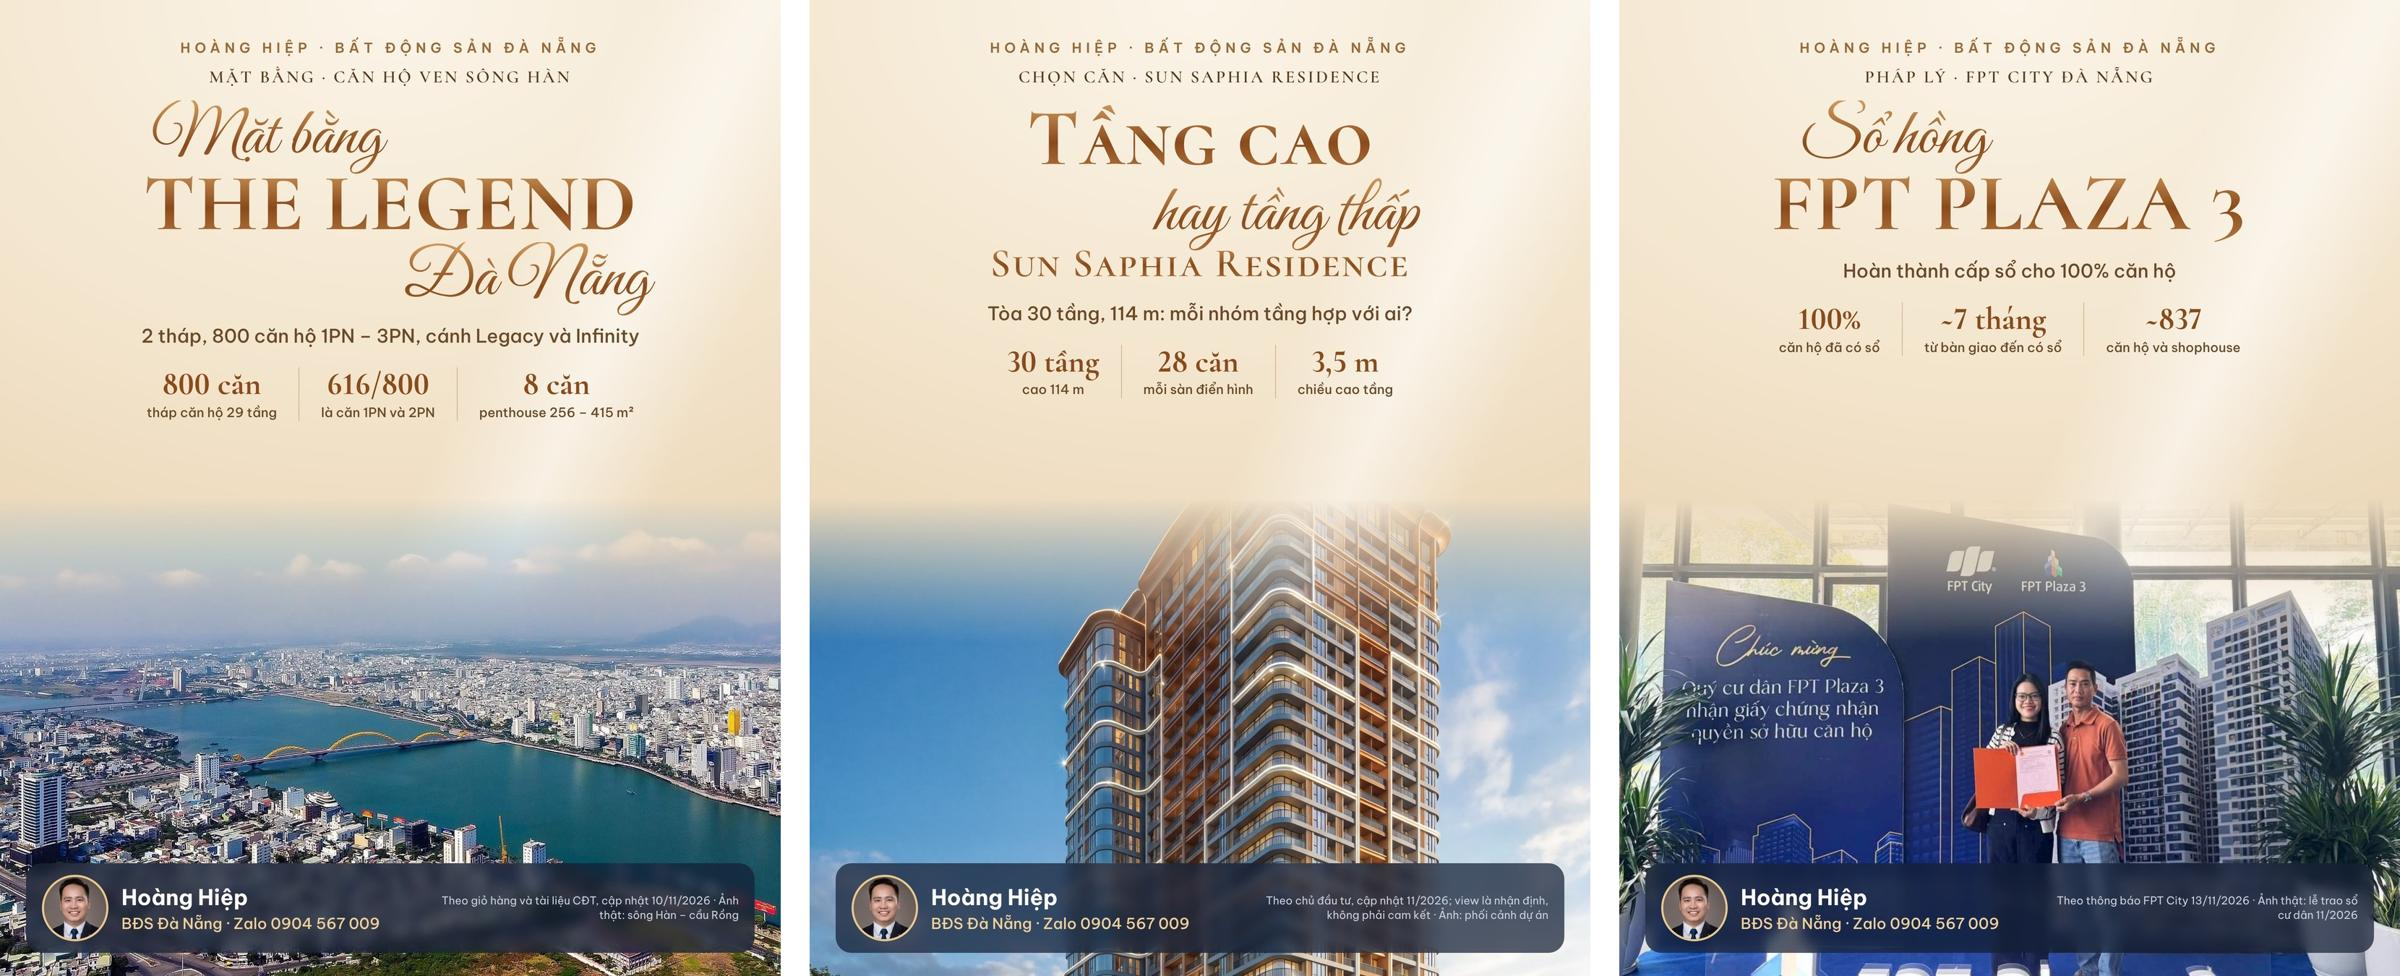
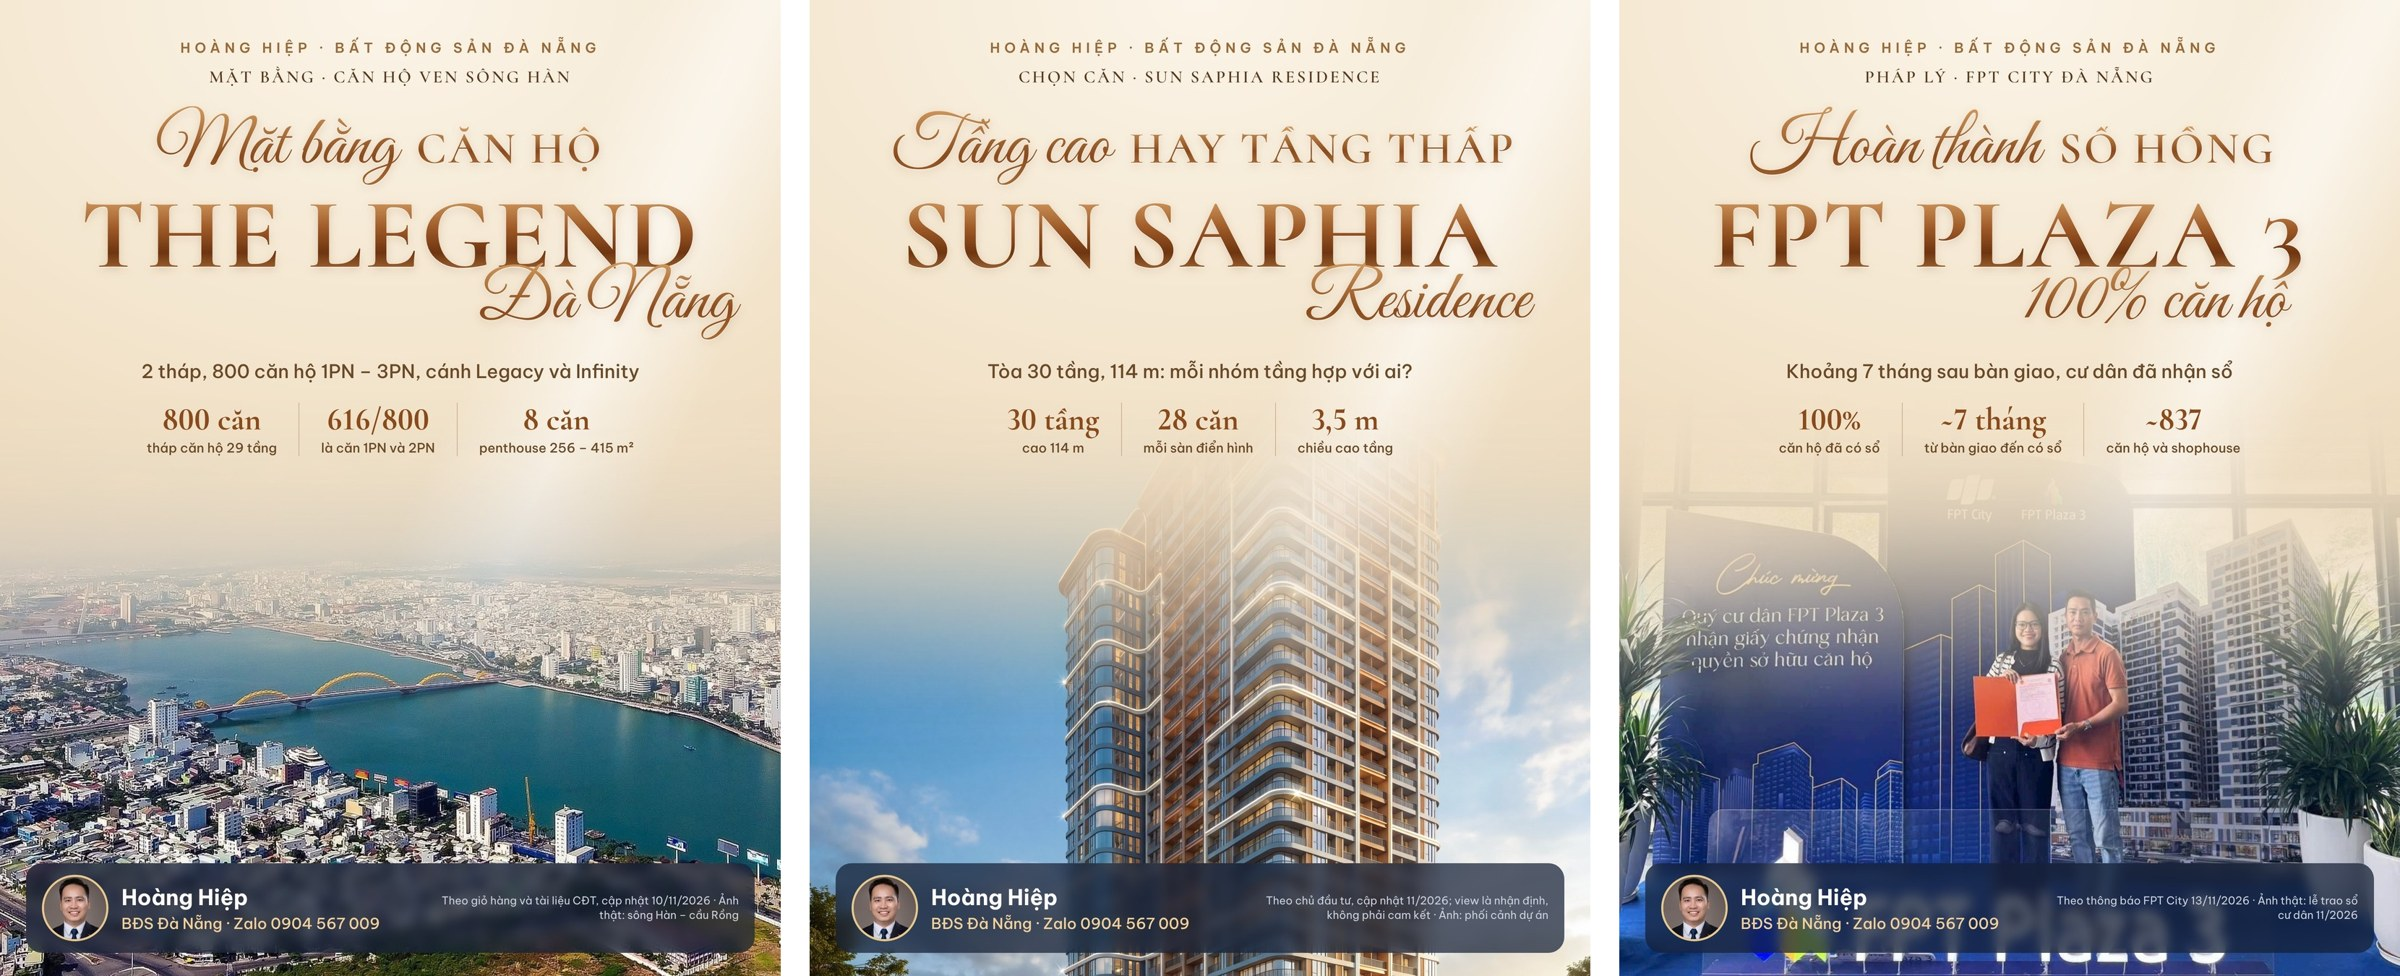
Mẫu poster: chữ nghiêng cùng hàng chữ in, chữ nhấn rất to, dòng nghiêng chạm nhẹ góc dưới phải; ảnh mờ dần đều hơn
Claude-Session: https://claude.ai/code/session_01Wm6ymiK43bcSEb2Ytz1zHX

diff --git a/wordpress/bai-viet/fb-the-doc-v2.py b/wordpress/bai-viet/fb-the-doc-v2.py
@@ -75,8 +75,13 @@ if STYLE == 'tap-chi':
 elif STYLE == 'poster':
     # Kiểu poster (theo mẫu anh Hiệp gửi 15/11/2026): nền ngà có vệt sáng, tiêu đề so le căn giữa
     # (chữ nghiêng Great Vibes + chữ in Cormorant SC màu đồng, chữ nhấn to đậm), 3 con số, ảnh tràn nửa dưới mờ dần lên.
-    hl = c.get('headline') or [[c['title'], 'cap', 0]]
-    head = ''.join('<span class="l %s" style="transform:translateX(%dpx)">%s</span>' % (k, int(dx), e(t)) for t, k, dx in hl)
+    # headline_poster: các dòng; mỗi dòng {"segs": [[chữ, script|cap|big], ...], "dx": lệch ngang px, "over": đè lên dòng trên}
+    # Ví dụ mẫu Noble Palace: [{"segs":[["Bình ổn","script"],["LÃI SUẤT","cap"]]}, {"segs":[["AN TÂM","big"]]},
+    #                          {"segs":[["Tích sản","script"]],"dx":200,"over":true}]
+    hl = c.get('headline_poster') or [{'segs': [[c['title'], 'cap']]}]
+    head = ''.join('<span class="ln%s" style="transform:translateX(%dpx)">%s</span>' % (
+        ' over' if ln.get('over') else '', int(ln.get('dx', 0)),
+        ''.join('<span class="l %s">%s</span>' % (k, e(t)) for t, k in ln['segs'])) for ln in hl)
     st = ''.join('<div class="st"><b>%s</b><span>%s</span></div>' % (e(a), e(b)) for a, b in stats[:3])
     body = """<div class="card pos">
 <div class="beam"></div>
@@ -87,15 +92,18 @@ elif STYLE == 'poster':
     css = """
 .pos{background:radial-gradient(120% 70% at 50% 0%,#fbf4e8 0%,#f3e5cd 55%,#e9d3b2 100%);color:#3a2412}
 .pos .beam{position:absolute;inset:0;background:linear-gradient(115deg,transparent 52%,rgba(255,255,255,.55) 62%,transparent 72%);pointer-events:none}
-.pos .ph{position:absolute;left:0;right:0;bottom:0;height:660px;background-size:cover;-webkit-mask-image:linear-gradient(180deg,transparent 0%,#000 30%);mask-image:linear-gradient(180deg,transparent 0%,#000 30%)}
+.pos .ph{position:absolute;left:0;right:0;bottom:0;height:820px;background-size:cover;-webkit-mask-image:linear-gradient(180deg,rgba(0,0,0,0) 0%,rgba(0,0,0,.04) 8%,rgba(0,0,0,.12) 16%,rgba(0,0,0,.26) 24%,rgba(0,0,0,.45) 32%,rgba(0,0,0,.66) 40%,rgba(0,0,0,.84) 48%,rgba(0,0,0,.95) 56%,#000 64%);mask-image:linear-gradient(180deg,rgba(0,0,0,0) 0%,rgba(0,0,0,.04) 8%,rgba(0,0,0,.12) 16%,rgba(0,0,0,.26) 24%,rgba(0,0,0,.45) 32%,rgba(0,0,0,.66) 40%,rgba(0,0,0,.84) 48%,rgba(0,0,0,.95) 56%,#000 64%)}
+.pos .ph:after{content:'';position:absolute;left:0;right:0;top:0;height:55%;background:linear-gradient(180deg,rgba(243,229,205,.9) 0%,rgba(243,229,205,.45) 45%,rgba(243,229,205,0) 100%)}
 .pos .top{position:absolute;left:60px;right:60px;top:54px;text-align:center;display:flex;flex-direction:column;align-items:center}
 .pos .brand{font:600 19px BVP;letter-spacing:.32em;color:#9a6a3a}
 .pos .tag{margin-top:14px;font:600 24px CSC;letter-spacing:.12em;color:#5a3a1e}
-.pos h1{margin:18px 0 6px;display:flex;flex-direction:column;align-items:center}
-.pos .l{display:block;white-space:nowrap;-webkit-background-clip:text;background-clip:text;color:transparent;background-image:linear-gradient(180deg,#d39a5c 0%,#8a4a1c 55%,#b8783f 100%);font-variant-numeric:lining-nums}
-.pos .script{font:400 92px/1 GV;padding:6px 16px 14px;margin:0 0 -22px}
-.pos .cap{font:600 56px/1.05 CSC;letter-spacing:.04em}
-.pos .big{font:700 112px/.95 CSC;letter-spacing:.01em}
+.pos h1{margin:26px 0 4px;display:flex;flex-direction:column;align-items:center}
+.pos .ln{display:flex;align-items:baseline;justify-content:center;gap:18px;white-space:nowrap;position:relative}
+.pos .ln.over{margin-top:-26px;z-index:2}
+.pos .l{display:inline-block;white-space:nowrap;filter:drop-shadow(0 1px 0 rgba(255,255,255,.7)) drop-shadow(0 3px 6px rgba(120,60,20,.18));-webkit-background-clip:text;background-clip:text;color:transparent;background-image:linear-gradient(180deg,#d39a5c 0%,#8a4a1c 55%,#b8783f 100%);font-variant-numeric:lining-nums}
+.pos .script{font:400 96px/1.1 GV;padding:4px 18px 16px 10px;margin:0 -10px -10px 0}
+.pos .cap{font:600 62px/1 CSC;letter-spacing:.05em}
+.pos .big{font:700 138px/.9 CSC;letter-spacing:.02em;background-image:linear-gradient(180deg,#e0aa6c 0%,#9a5524 45%,#6e3510 70%,#b97d45 100%)}
 .pos .sub{margin:16px 0 0;font:500 26px/1.35 BVP;color:#6b4a2a}
 .pos .stats{margin-top:26px;display:flex;justify-content:center}
 .pos .st{padding:0 30px;text-align:center}.pos .st+.st{border-left:1.5px solid rgba(138,74,28,.35)}
@@ -165,6 +173,7 @@ tmp.write(page)
 tmp.close()
 js = '''const {chromium}=require('playwright');(async()=>{const b=await chromium.launch();const p=await b.newPage({viewport:{width:1080,height:1350},deviceScaleFactor:2});
 await p.goto('file://'+process.argv[2]);await p.evaluate(()=>document.fonts.ready);await p.waitForTimeout(300);
+await p.evaluate(()=>document.querySelectorAll('.pos .ln').forEach(l=>{const w=l.scrollWidth;if(w>960){const k=960/w;l.querySelectorAll('.l').forEach(x=>{x.style.fontSize=(parseFloat(getComputedStyle(x).fontSize)*k)+'px';});}}));
 const o=await p.evaluate(()=>[...document.querySelectorAll('.lux h1:not(.hl),.sub,.st b,li b,li span,.box')].filter(e=>e.scrollWidth>e.clientWidth+1||e.getBoundingClientRect().right>1080).map(e=>e.textContent));
 if(o.length)console.error('TRAN CHU:',JSON.stringify(o));
 await p.screenshot({path:process.argv[3],type:'jpeg',quality:92});await b.close();})();'''
